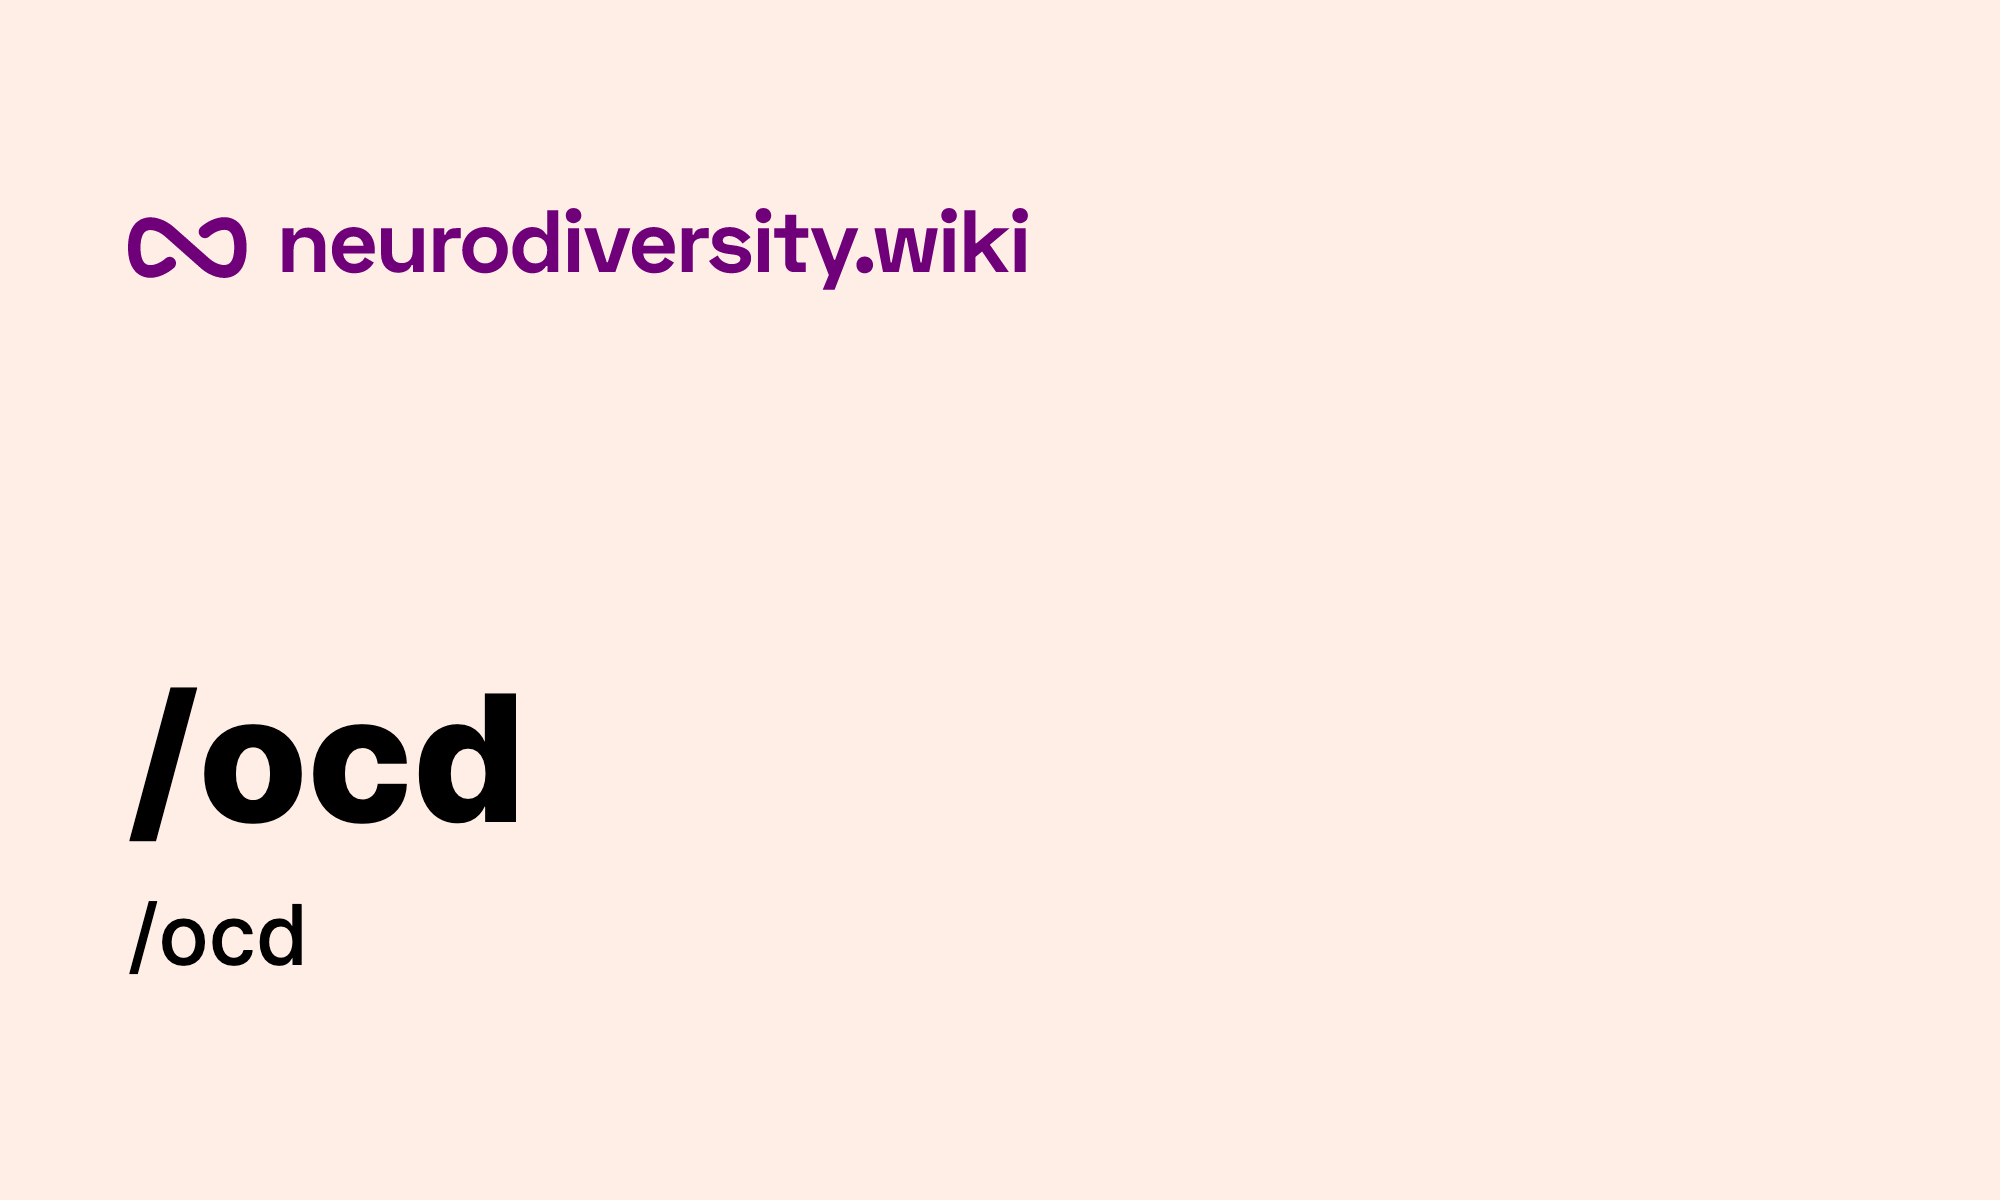
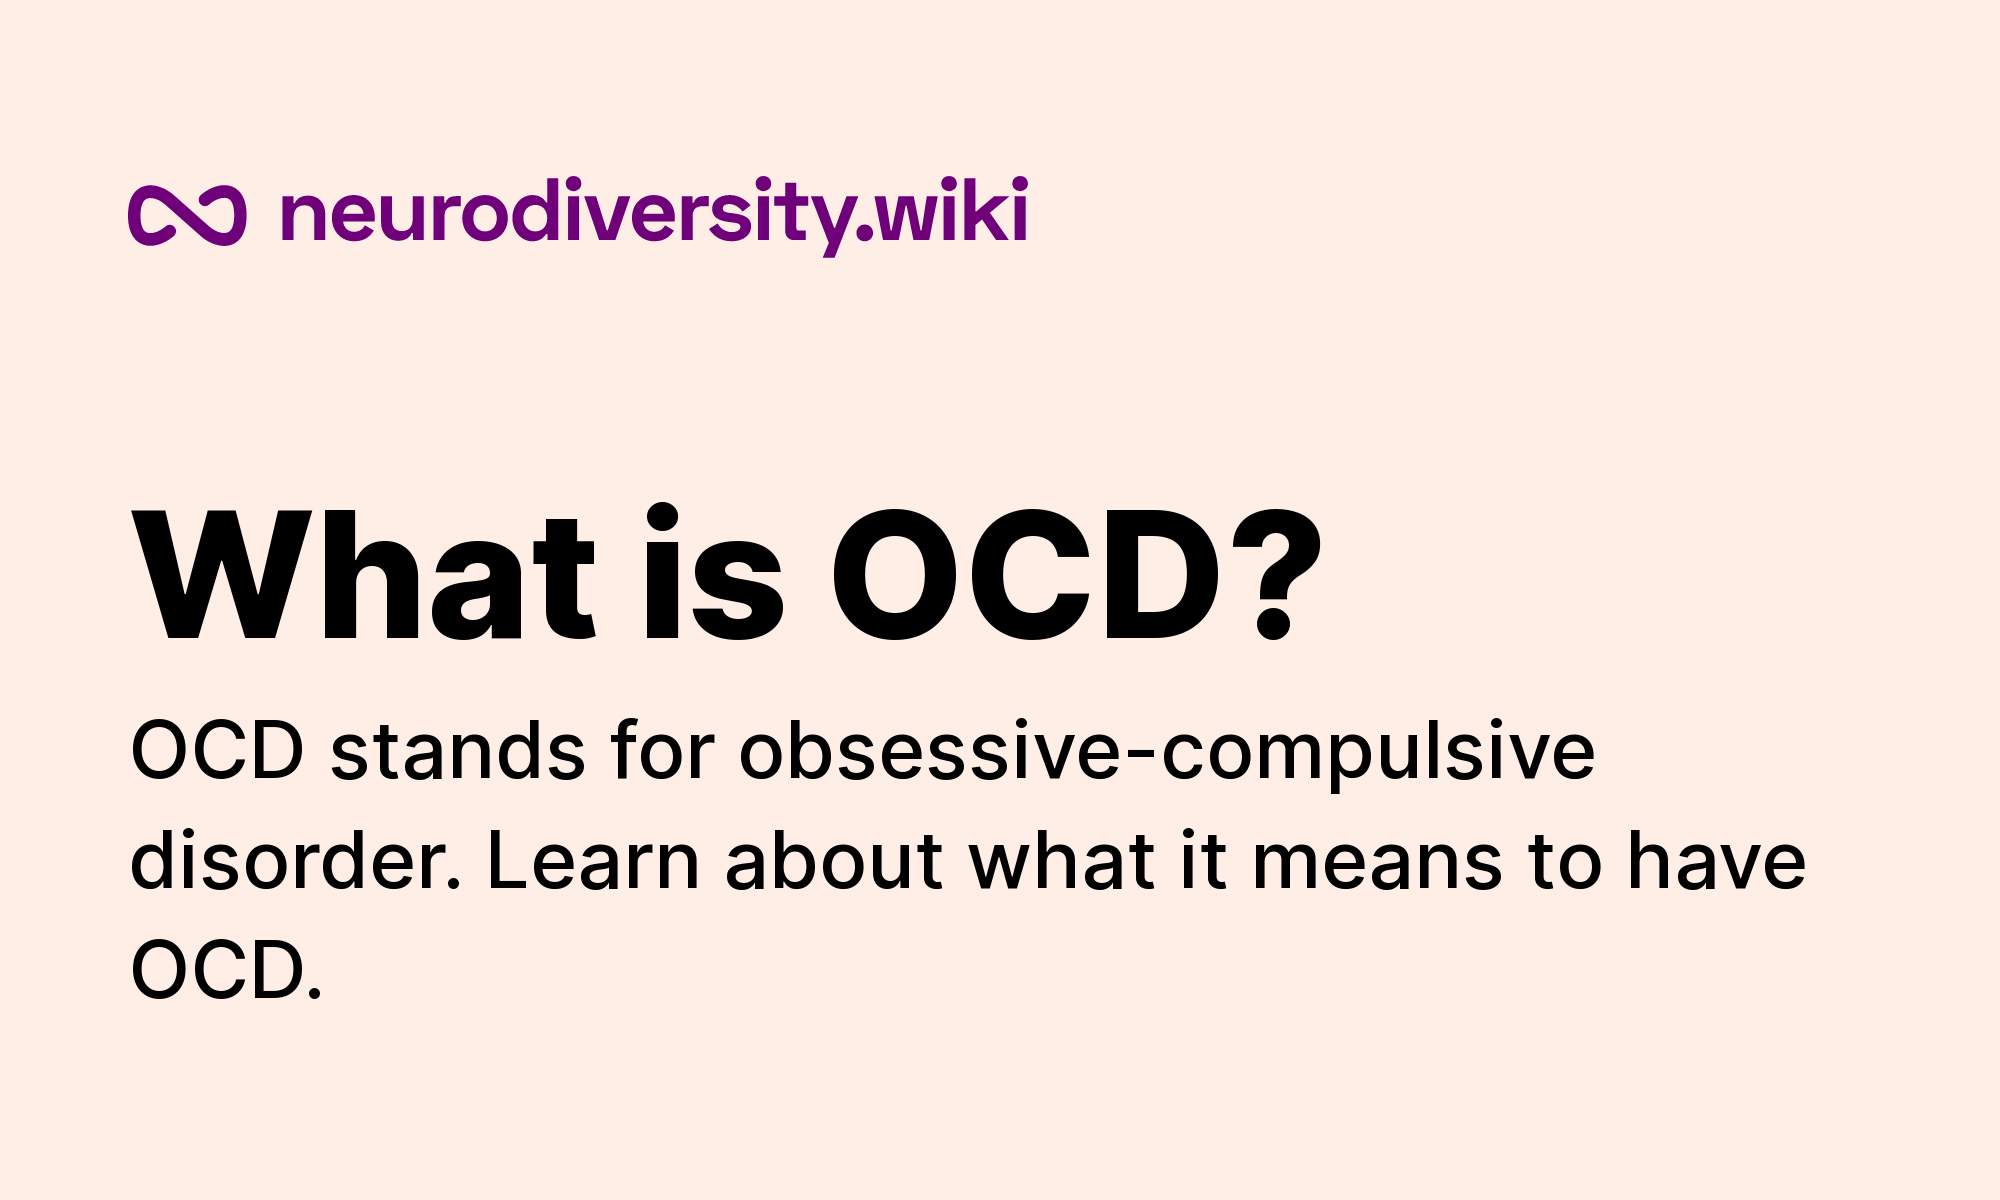
Working image generator

Changed region(s): [[0.062, 0.555, 0.899, 0.8325], [0.062, 0.4008, 0.682, 0.555], [0.062, 0.1542, 0.527, 0.2467]]

diff --git a/next-ogimage.ts b/next-ogimage.ts
@@ -1,0 +1,226 @@
+import fs, { promises } from "fs";
+import path from "path";
+import chrome from "chrome-aws-lambda";
+import puppeteer, { Browser } from "puppeteer-core";
+import { useRouter } from "next/router";
+import { spawn, ChildProcessWithoutNullStreams } from "child_process";
+
+import config from "./next-ogimage.config";
+
+type Route = `/${string}`;
+
+type Meta = {
+  title: string;
+  description: string;
+};
+
+(async () => {
+  const server = await getServer();
+  const browser = await getBrowser();
+  const routes = await getRoutes();
+
+  await Promise.all(
+    routes.map(async (route) => {
+      await capturePage(browser, route);
+    })
+  );
+
+  browser.close();
+  server.kill();
+})();
+
+async function getServer(): Promise<ChildProcessWithoutNullStreams> {
+  console.log("Starting server");
+
+  const server = spawn("yarn", ["start", "-p", config.devServerPort]);
+
+  return new Promise((resolve, reject) => {
+    server.stdout.on("data", (data) => {
+      if (data.toString().includes("ready - started server on")) {
+        resolve(server);
+      }
+    });
+
+    server.stderr.on("data", (data) => {
+      reject(`stderr: ${data}`);
+    });
+
+    server.on("error", (error) => {
+      reject(`error: ${error.message}`);
+    });
+
+    server.on("close", (code) => {
+      reject(`child process exited with code ${code}`);
+    });
+  });
+}
+
+async function getBrowser(): Promise<Browser> {
+  console.log("Starting browser");
+
+  const options = process.env.AWS_REGION
+    ? {
+        args: chrome.args,
+        executablePath: await chrome.executablePath,
+        headless: chrome.headless,
+      }
+    : {
+        args: [],
+        executablePath:
+          process.platform === "win32"
+            ? "C:\\Program Files (x86)\\Google\\Chrome\\Application\\chrome.exe"
+            : process.platform === "linux"
+            ? "/usr/bin/google-chrome"
+            : "/Applications/Google Chrome.app/Contents/MacOS/Google Chrome",
+      };
+
+  return await puppeteer.launch(options);
+}
+
+function getPath(...pathSegment: string[]): string {
+  return path.resolve(process.cwd(), ...pathSegment);
+}
+
+async function readJson(path): Promise<object> {
+  const file = await promises.readFile(path);
+  return JSON.parse(file.toString());
+}
+
+function filterRoutes(routes: Route[]): Route[] {
+  const builtIn = (route: Route): boolean => {
+    return !["/_app", "/_error", "/500", "/404", ...config.ignorePaths].includes(route);
+  };
+  const dynamic = (route: Route): boolean => {
+    return !/\/\[.*\]/.test(route);
+  };
+
+  return routes.filter(builtIn).filter(dynamic);
+}
+
+async function getRoutes(): Promise<Route[]> {
+  const MANIFESETS = {
+    prerender: await readJson(getPath("./.next/prerender-manifest.json")),
+    build: await readJson(getPath("./.next/build-manifest.json")),
+  };
+
+  const staticRoutes: Route[] = Object.keys(MANIFESETS.build.pages).map((key) => {
+    return key as Route;
+  });
+
+  const dynamicRoutes: Route[] = Object.keys(MANIFESETS.prerender.routes).map((key) => {
+    return key as Route;
+  });
+
+  return filterRoutes([...staticRoutes, ...dynamicRoutes]);
+}
+
+function routeToFilename(route: Route): string {
+  if (route === "/") return "index";
+
+  return route.replace("/", "");
+}
+
+function getBaseUrl(): string {
+  return `http://localhost:${config.devServerPort}`;
+}
+
+function getLayoutUrl(meta: Meta): string {
+  const base = getBaseUrl();
+  const title = encodeURIComponent(meta.title);
+  const description = encodeURIComponent(meta.description);
+
+  return `${base}${config.layoutPath}/?title=${title}&description=${description}`;
+}
+
+async function getMeta(browser: Browser, route: Route): Promise<Meta> {
+  const page = await browser.newPage();
+
+  const base = getBaseUrl();
+  const url = `${base}${route}`;
+
+  await page.goto(url, {
+    waitUntil: "networkidle0",
+  });
+
+  return new Promise(async (resolve, reject) => {
+    try {
+      let title = await page.evaluate(() => {
+        const selector = document.head.querySelector("title");
+        if (!selector) throw new Error("No title tag found");
+
+        const content = selector.textContent;
+        if (!content) throw new Error("No title content found");
+
+        return content;
+      });
+
+      let description = await page.evaluate(() => {
+        const selector = document.head.querySelector('meta[name="description"]');
+        if (!selector) throw new Error("No description tag found");
+
+        const content = selector.getAttribute("content");
+        if (!content) throw new Error("No description content found");
+
+        return content;
+      });
+
+      await page.close();
+      resolve({
+        title,
+        description,
+      });
+    } catch (e) {
+      await page.close();
+      reject(e);
+    }
+  });
+}
+
+async function capturePage(browser: Browser, route: Route) {
+  await getMeta(browser, route)
+    .then(async () => {
+      const url = getLayoutUrl(await getMeta(browser, route));
+
+      const page = await browser.newPage();
+
+      await page.setViewport({
+        width: 2000,
+        height: 1200,
+      });
+
+      await page.goto(url, {
+        waitUntil: "networkidle0",
+      });
+
+      if (!fs.existsSync(getPath(config.outputFolder))) {
+        await promises.mkdir(getPath(config.outputFolder));
+      }
+
+      await page.screenshot({
+        type: "png",
+        path: `${config.outputFolder}/${routeToFilename(route)}.png`,
+      });
+
+      console.log("Captured:", route);
+      await page.close();
+    })
+    .catch((e) => {
+      console.error("Error on route:", route, e.message);
+    });
+}
+
+function useOgImage() {
+  const { pathname } = useRouter();
+
+  if (pathname == "/") return `${config.outputFolder}/index.png`;
+
+  return `${config.outputFolder}/${pathname}.png`;
+}
+
+function useMetadata() {
+  const { query } = useRouter();
+
+  return { title: query.title, description: query.description };
+}
+
+export { useOgImage, useMetadata };

diff --git a/components/Meta.js b/components/Meta.js
@@ -1,9 +1,9 @@
 import Head from "next/head";
 
+import { useOgImage } from "next-ogimage";
+
 export default function Meta({ title, description }) {
-  const ogImageUrl = `https://${
-    process.env.NEXT_PUBLIC_VERCEL_URL
-  }/api/ogimage/?${new URLSearchParams({ title, description }).toString()}`;
+  const ogImage = useOgImage();
 
   return (
     <Head>
@@ -12,7 +12,7 @@ export default function Meta({ title, description }) {
       <meta property="og:title" content={title}></meta>
       <meta property="og:site_name" content="neurodiversity.wiki"></meta>
       <meta property="og:description" content={description}></meta>
-      <meta property="og:image" content={ogImageUrl}></meta>
+      <meta property="og:image" content={ogImage}></meta>
       <meta name="twitter:card" content="summary_large_image"></meta>
       <meta name="twitter:site" content="@alvarlagerlof"></meta>
       <meta name="twitter:creator" content="@alvarlagerlof"></meta>

diff --git a/pages/ogimagelayout.tsx b/pages/ogimagelayout.tsx
@@ -1,0 +1,15 @@
+import { useMetadata } from "next-ogimage";
+
+export default function OgImageLayout() {
+  const { title, description } = useMetadata();
+
+  return (
+    <div className="w-[2000px] h-[1200px] bg-secondary py-44 px-32 flex flex-col justify-between">
+      <img src="/logos/logomark-primary.svg" className="w-[900px]" alt="" />
+      <div className="space-y-8">
+        <h1 className="text-[11em] font-display font-extrabold leading-none">{title}</h1>
+        <h2 className="text-[4.7em] font-medium leading-snug">{description}</h2>
+      </div>
+    </div>
+  );
+}

diff --git a/pages/join.tsx b/pages/join.tsx
@@ -14,8 +14,8 @@ export default function Join() {
   return (
     <Wrapper>
       <Meta
-        title="Neurodiversity Wiki"
-        description="Learn about OCD, Autism, Bipolar, Anxiety, Depression and more."
+        title="Join us"
+        description="We're a small but awesome team of writers and developers."
       />
 
       <ContentInset size="normal">

diff --git a/next-ogimage.config.js b/next-ogimage.config.js
@@ -1,0 +1,6 @@
+module.exports = {
+  outputFolder: "public/ogimages",
+  devServerPort: "3099",
+  layoutPath: "/ogimagelayout",
+  ignorePaths: ["/ogimagelayout"],
+};
